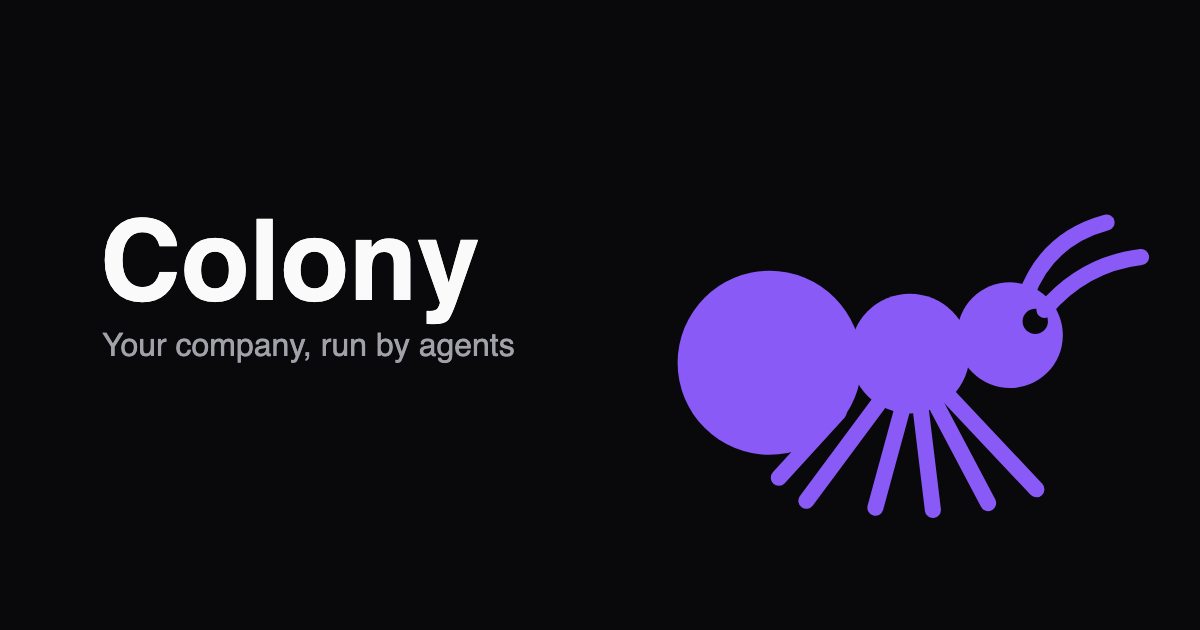
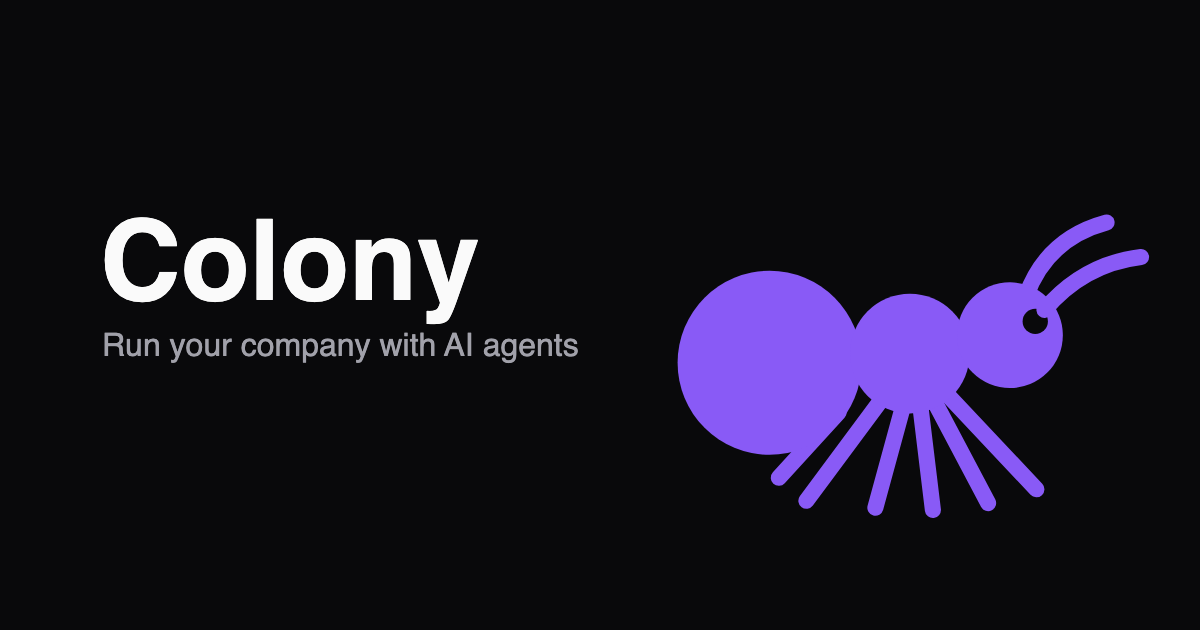
docs(site): update headline to collaborative framing
Replace "Your company, run by agents" with "Run your company with AI
agents" across the hero H1, page title, OG social card, and README
verification note. The old framing cut humans out; the new one keeps
the human as the one running the company, with AI agents as the tool,
matching the existing subheadline's collaborative framing.

Also widen the hero H1 container from max-w-3xl to max-w-4xl: the
longer headline no longer fit on one line at desktop width and wrapped
with an orphaned "agents" on its own line. This restores the prior
single-line desktop layout without shortening the new copy.

Changed region(s): [[0.0925, 0.5127, 0.4933, 0.573]]

diff --git a/site/src/sections/Hero.tsx b/site/src/sections/Hero.tsx
@@ -10,8 +10,8 @@ export function Hero() {
         <span className="mb-8 block w-16 text-colony-violet sm:w-20">
           <AntMark className="h-auto w-full" />
         </span>
-        <h1 className="max-w-3xl text-4xl font-semibold tracking-tight text-zinc-50 sm:text-6xl">
-          Your company, run by agents
+        <h1 className="max-w-4xl text-4xl font-semibold tracking-tight text-zinc-50 sm:text-6xl">
+          Run your company with AI agents
         </h1>
         <p className="mt-6 max-w-xl text-base leading-relaxed text-zinc-400 sm:text-lg">
           Colony is a workspace where AI agents and people build a company

diff --git a/site/index.html b/site/index.html
@@ -3,7 +3,7 @@
   <head>
     <meta charset="UTF-8" />
     <meta name="viewport" content="width=device-width, initial-scale=1.0" />
-    <title>Colony: your company, run by agents</title>
+    <title>Colony: run your company with AI agents</title>
     <meta
       name="description"
       content="Colony is a company workspace where AI agents and people work together: chat, agent teams, workflows, canvas, and git."

diff --git a/site/README.md b/site/README.md
@@ -84,7 +84,7 @@ is a separate follow-up, not assumed by this runbook.
 ## Verification performed for this preview deploy
 
 Fetched the live preview and confirmed: the page returns HTTP 200, the rendered page
-contains the Colony headline ("Your company, run by agents"), and both `/favicon.svg` and
+contains the Colony headline ("Run your company with AI agents"), and both `/favicon.svg` and
 `/og.png` return HTTP 200 rather than 404. Rendered the live URL in a headless browser and
 confirmed it matches the local build: hero, scatter field, feature sections, download CTA,
 and footer all present, with no console errors.
